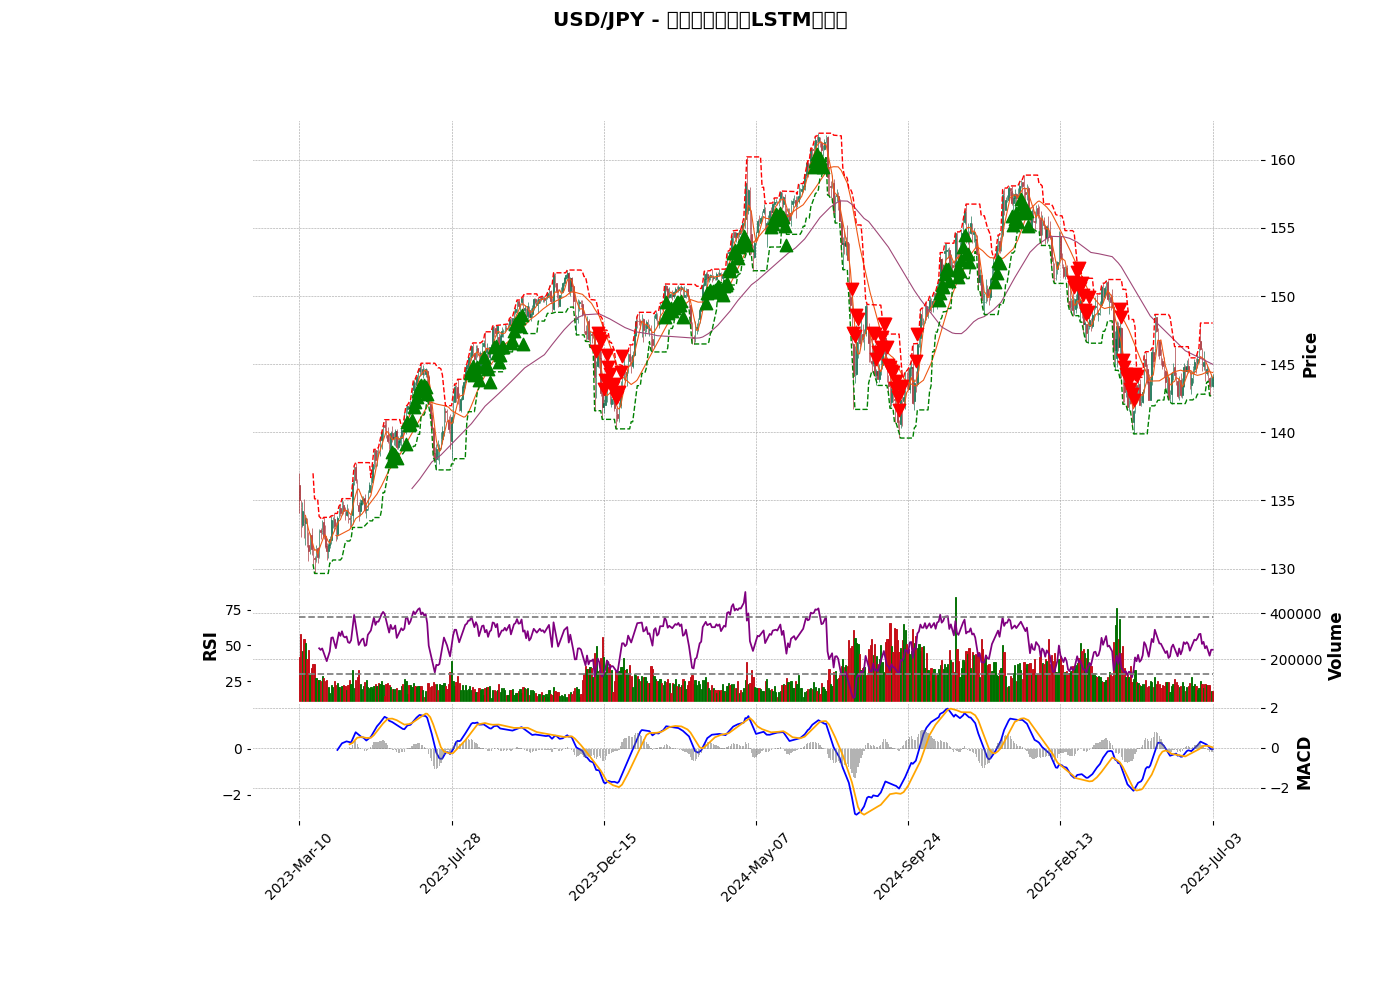
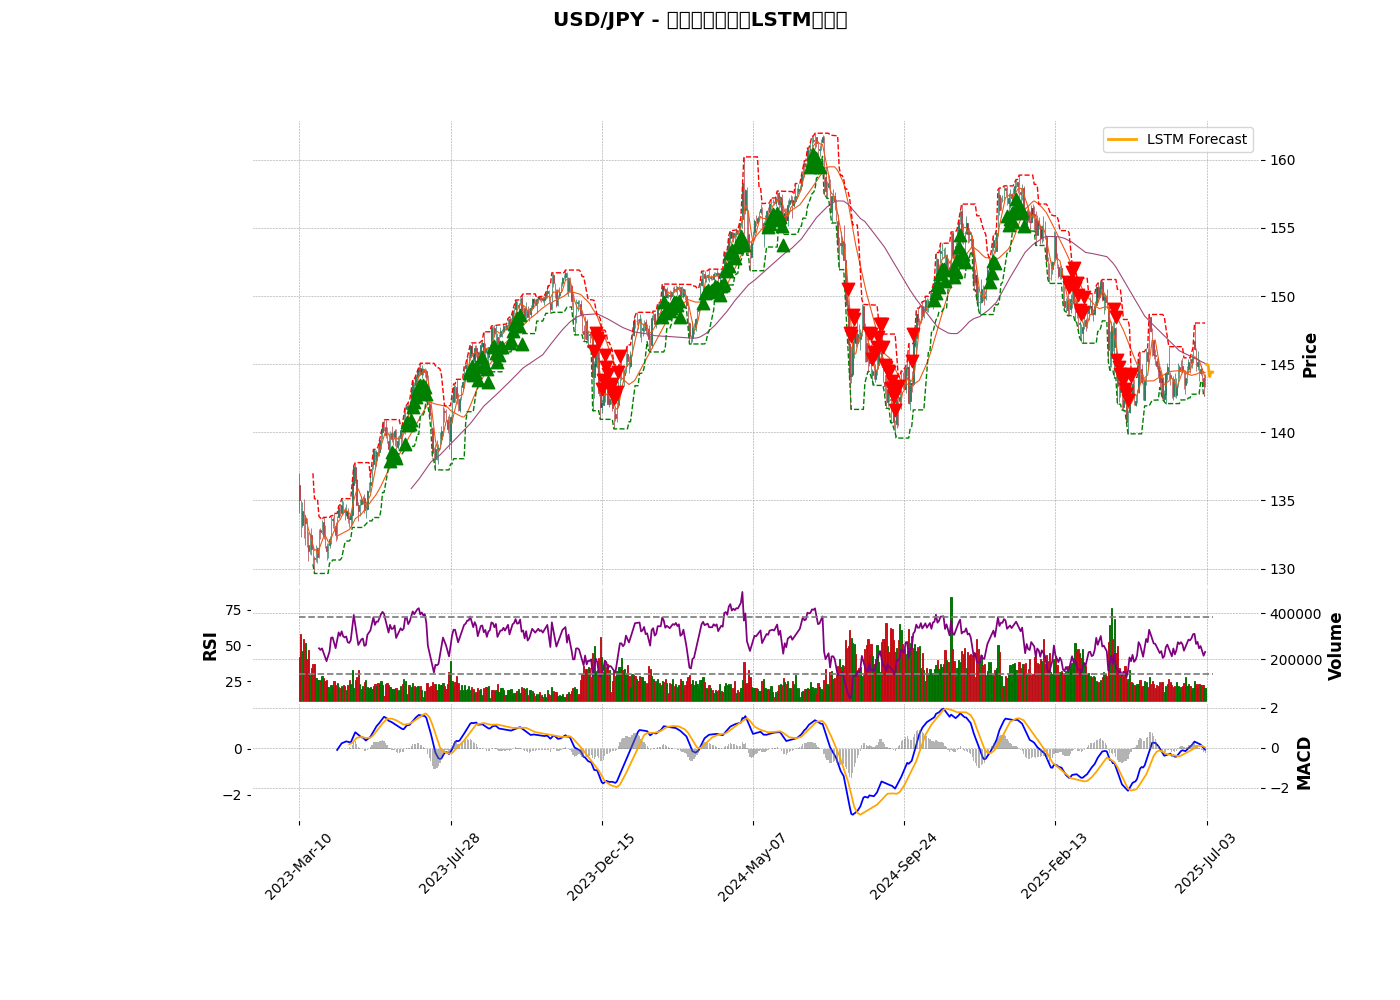
新システム構築中
新システム構築中

diff --git a/Src/main.py b/Src/main.py
@@ -22,48 +22,32 @@ def main():
     if _enableActual:
         if _enableTrade:
             df, trend_signal = MTManager_UpdateIndicators()
-            if (trend_signal == "uptrend") or (trend_signal == "downtrend"):
-                print("[INFO] シグナル発生 = ", trend_signal)
-                predicted_price, df = LSTMModel_PredictLSTM(df, False)
+            
+            # --- Step 1: 形成中ローソク足を取り出して保存
+            forming_candle = df.iloc[-1].copy()
 
-                next_date = df.index[-1] + pd.Timedelta(days=1)
-                df.loc[next_date] = df.iloc[-1]
-                df["LSTM_Predicted"] = np.nan
-                df.at[next_date, "LSTM_Predicted"] = predicted_price
+            # --- Step 2: 未確定足を除外
+            df = df.iloc[:-1]
 
-                MTManager_DrawChart(df)
+            # --- Step 3: LSTM予測
+            predicted_prices, df = LSTMModel_PredictLSTM(df, False)
 
-                # ============ 通知処理 ============
-                latest_rsi = df["RSI_14"].dropna().iloc[-2]
-                support = df["Support"].iloc[-2]
-                resistance = df["Resistance"].iloc[-2]
+            # --- Step 4: 形成中ローソク足を復元（次の日付で）
+            forming_date = df.index[-1] + pd.Timedelta(days=1)
+            while forming_date in df.index:
+                forming_date += pd.Timedelta(days=1)
+            df.loc[forming_date] = forming_candle
 
-                alerter.check_rsi_alert(latest_rsi)
-                alerter.check_prediction_alert(predicted_price, support, resistance)
-
-                subject = f"【SGSystem予測】{df.index[-2].date()}時点"
-                body = f""" ■ トレンドシグナル：{trend_signal}
-                            ■ LSTM予測終値：{predicted_price:.2f}
-                            ■ RSI：{latest_rsi:.2f}
-                            ■ サポートライン：{support:.2f}
-                            ■ レジスタンスライン：{resistance:.2f}
-                            （チャート画像2枚を添付）"""
-                
-                notifier.send_email(subject, body, attachments=["Asset/Log/ChartImage/chart_full.png", "Asset/Log/ChartImage/chart_zoom.png"])
-            else:
-                print("[INFO] トレンドシグナルなし → LSTMスキップ")
-                _enableTrade = False
-    else:
-        if _enableTrade:
-            df, trend_signal = MTManager_UpdateIndicators()
-            predicted_price, df = LSTMModel_PredictLSTM(df, False)
-
-            next_date = df.index[-1] + pd.Timedelta(days=1)
-            df.loc[next_date] = df.iloc[-1]
-            df["LSTM_Predicted"] = np.nan
-            df.at[next_date, "LSTM_Predicted"] = predicted_price
+            # --- Step 5: さらにその翌日から予測追加
+            for i, price in enumerate(predicted_prices):
+                future_date = forming_date + pd.Timedelta(days=i + 1)
+                while future_date in df.index:
+                    future_date += pd.Timedelta(days=1)
+                df.loc[future_date] = np.nan
+                df.at[future_date, "LSTM_Predicted"] = price
 
             MTManager_DrawChart(df)
+
 
             # ============ 通知処理 ============
             latest_rsi = df["RSI_14"].dropna().iloc[-2]
@@ -71,11 +55,61 @@ def main():
             resistance = df["Resistance"].iloc[-2]
 
             alerter.check_rsi_alert(latest_rsi)
-            alerter.check_prediction_alert(predicted_price, support, resistance)
+            alerter.check_prediction_alert(predicted_prices[0], support, resistance)
+
+            subject = f"【SGSystem予測】{df.index[-2].date()}時点"
+            body = f""" ■ トレンドシグナル：{trend_signal}
+                        ■ LSTM予測終値：[{predicted_prices[0]:.2f}, {predicted_prices[1]:.2f}, {predicted_prices[2]:.2f}, {predicted_prices[3]:.2f}, {predicted_prices[4]:.2f}]
+                        ■ RSI：{latest_rsi:.2f}
+                        ■ サポートライン：{support:.2f}
+                        ■ レジスタンスライン：{resistance:.2f}
+                        （チャート画像2枚を添付）"""
+            
+            notifier.send_email(subject, body, attachments=["Asset/Log/ChartImage/chart_full.png", "Asset/Log/ChartImage/chart_zoom.png"])
+        else:
+            print("[INFO] トレンドシグナルなし → LSTMスキップ")
+            _enableTrade = False
+    else:
+        if _enableTrade:
+            df, trend_signal = MTManager_UpdateIndicators()
+            
+            # --- Step 1: 形成中ローソク足を取り出して保存
+            forming_candle = df.iloc[-1].copy()
+
+            # --- Step 2: 未確定足を除外
+            df = df.iloc[:-1]
+
+            # --- Step 3: LSTM予測
+            predicted_prices, df = LSTMModel_PredictLSTM(df, False)
+
+            # --- Step 4: 形成中ローソク足を復元（次の日付で）
+            forming_date = df.index[-1] + pd.Timedelta(days=1)
+            while forming_date in df.index:
+                forming_date += pd.Timedelta(days=1)
+            df.loc[forming_date] = forming_candle
+
+            # --- Step 5: さらにその翌日から予測追加
+            for i, price in enumerate(predicted_prices):
+                future_date = forming_date + pd.Timedelta(days=i + 1)
+                while future_date in df.index:
+                    future_date += pd.Timedelta(days=1)
+                df.loc[future_date] = np.nan
+                df.at[future_date, "LSTM_Predicted"] = price
+
+            MTManager_DrawChart(df)
+
+
+            # ============ 通知処理 ============
+            latest_rsi = df["RSI_14"].dropna().iloc[-2]
+            support = df["Support"].iloc[-2]
+            resistance = df["Resistance"].iloc[-2]
+
+            alerter.check_rsi_alert(latest_rsi)
+            alerter.check_prediction_alert(predicted_prices[0], support, resistance)
 
             subject = f"【SGSystem予測】{df.index[-2].date()}時点"
             body = f""" ■ トレンドシグナル：{trend_signal or 'No Signal'}
-                        ■ LSTM予測終値：{predicted_price:.2f}
+                        ■ LSTM予測終値：[{predicted_prices[0]:.2f}, {predicted_prices[1]:.2f}, {predicted_prices[2]:.2f}, {predicted_prices[3]:.2f}, {predicted_prices[4]:.2f}]
                         ■ RSI：{latest_rsi:.2f}
                         ■ サポートライン：{support:.2f}
                         ■ レジスタンスライン：{resistance:.2f}

diff --git a/Src/Framework/ForecastSystem/LSTMModel.py b/Src/Framework/ForecastSystem/LSTMModel.py
@@ -15,6 +15,7 @@ def LSTMModel_PredictLSTM(df, show_plot=False):
     print("[INFO] LSTM Phase開始")
 
     sequence_length = 120
+    prediction_steps = 5  # ← 5日後まで
     FEATURES = [
         "close", "volume", "SMA_20", "SMA_50", "RSI_14",
         "MACD", "MACD_signal", "MACD_diff",
@@ -23,31 +24,31 @@ def LSTMModel_PredictLSTM(df, show_plot=False):
     ]
 
     df_feat = df[FEATURES].copy().dropna()
-    df_target = df["close"].shift(-1).dropna()
+    df_target = df["close"].copy()
 
-    min_len = min(len(df_feat), len(df_target))
-    df_feat, df_target = df_feat[:min_len], df_target[:min_len]
-
+    # 特徴量とターゲットをスケーリング
     feature_scaler = MinMaxScaler()
     target_scaler = MinMaxScaler()
 
     X_scaled = feature_scaler.fit_transform(df_feat)
     y_scaled = target_scaler.fit_transform(df_target.values.reshape(-1, 1))
 
+    # シーケンスとターゲットを構築（マルチステップ）
     X, y = [], []
-    for i in range(sequence_length, len(X_scaled)):
+    for i in range(sequence_length, len(X_scaled) - prediction_steps):
         X.append(X_scaled[i-sequence_length:i])
-        y.append(y_scaled[i])
+        y.append(y_scaled[i:i+prediction_steps].flatten())
 
     X, y = np.array(X), np.array(y)
     print(f"[INFO] 学習データ: {X.shape}, 正解ラベル: {y.shape}")
 
+    # モデル構築
     model = Sequential()
     model.add(LSTM(units=64, return_sequences=True, input_shape=(X.shape[1], X.shape[2])))
     model.add(Dropout(0.2))
     model.add(LSTM(units=32))
     model.add(Dropout(0.2))
-    model.add(Dense(1))
+    model.add(Dense(prediction_steps))  # 出力5個
 
     model.compile(optimizer='adam', loss='mean_squared_error')
     model.fit(X, y, epochs=30, batch_size=32, verbose=0)
@@ -65,20 +66,23 @@ def LSTMModel_PredictLSTM(df, show_plot=False):
     print(f"MAE:  {mae:.4f}")
     print(f"R^2:  {r2:.4f}")
 
+    # オプションでカーブ表示
     if show_plot:
         plt.figure(figsize=(12, 5))
-        plt.plot(y_true, label="True")
-        plt.plot(y_pred, label="Predicted")
-        plt.title("LSTM Forecast vs Actual")
+        plt.plot(y_true[:, 0], label="True")
+        plt.plot(y_pred[:, 0], label="Predicted Day+1")
+        plt.title("LSTM Forecast Day+1 vs Actual")
         plt.legend()
         plt.grid(True)
         plt.tight_layout()
         plt.show()
 
+    # 最新シーケンスから未来5日間を予測
     latest_sequence = X_scaled[-sequence_length:]
     latest_sequence = np.expand_dims(latest_sequence, axis=0)
-    predicted_scaled = model.predict(latest_sequence)[0][0]
-    predicted_price = target_scaler.inverse_transform([[predicted_scaled]])[0][0]
-    print(f"[予測] 翌日の終値: {predicted_price:.3f}")
+    future_pred_scaled = model.predict(latest_sequence)[0]
+    future_pred = target_scaler.inverse_transform(future_pred_scaled.reshape(-1, 1)).flatten()
 
-    return predicted_price, df
+    print("[予測] 5日先までの終値:", [f"{p:.2f}" for p in future_pred])
+
+    return future_pred.tolist(), df

diff --git a/Src/Framework/MTSystem/MTManager.py b/Src/Framework/MTSystem/MTManager.py
@@ -46,7 +46,7 @@ def MTManager_UpdateIndicators(days_back=600):
 
     # データフレーム化・インデックス変換
     df = pd.DataFrame(rates)
-    df['time'] = pd.to_datetime(df['time'], unit='s')
+    df['time'] = pd.to_datetime(df['time'], unit='s', utc=True).dt.tz_convert('Asia/Tokyo')
     df.set_index("time", inplace=True)
     df.rename(columns={"tick_volume": "volume"}, inplace=True)
 
@@ -128,9 +128,16 @@ def MTManager_DrawChart(df):
             mpf.make_addplot(sub_df["MACD_signal"], panel=2, color='orange'),
             mpf.make_addplot(sub_df["MACD_diff"], panel=2, type='bar', color='dimgray', alpha=0.5)
         ]
-        if "LSTM_Predicted" in sub_df.columns:
+        if "LSTM_Predicted" in sub_df.columns and sub_df["LSTM_Predicted"].notna().sum() >= 2:
             apds.append(
-                mpf.make_addplot(sub_df["LSTM_Predicted"], panel=0, color='darkorange', marker='X', markersize=10)
+                mpf.make_addplot(
+                    sub_df["LSTM_Predicted"],
+                    panel=0,
+                    color='orange',
+                    width=2,
+                    linestyle='-',
+                    label='LSTM Forecast'
+                )
             )
         return apds
 
